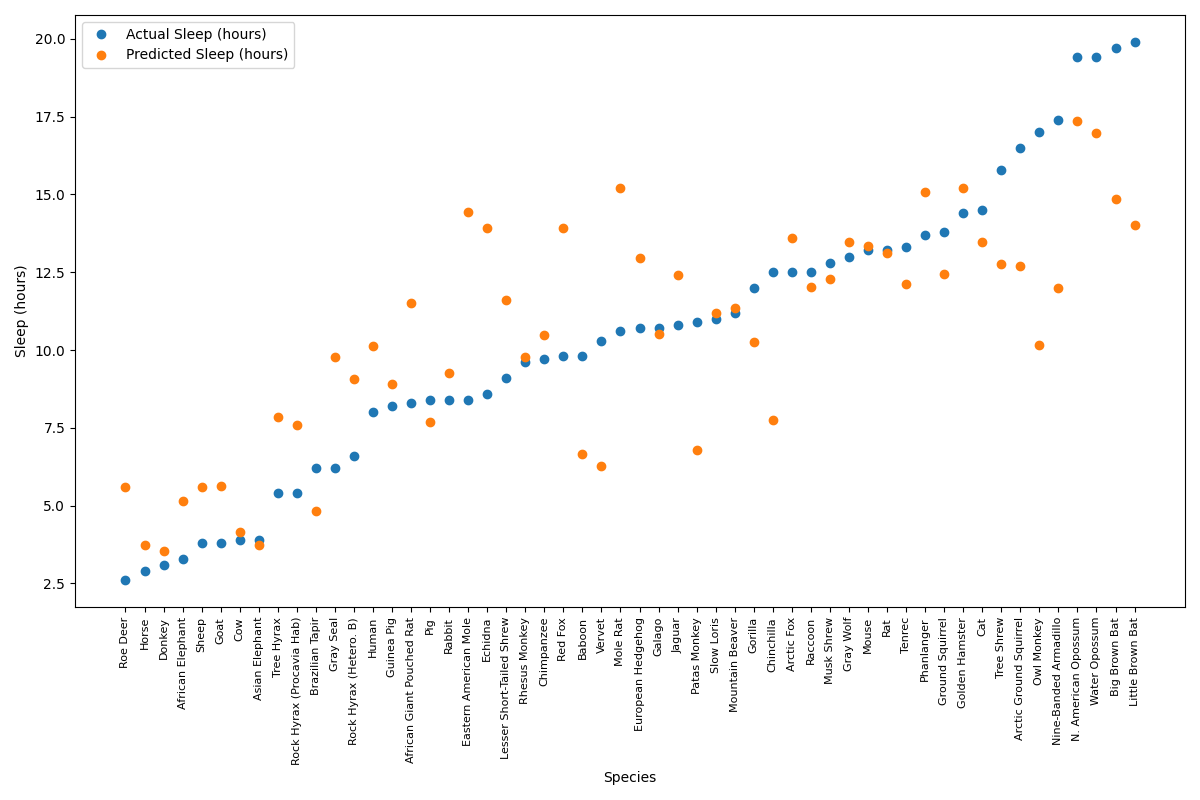
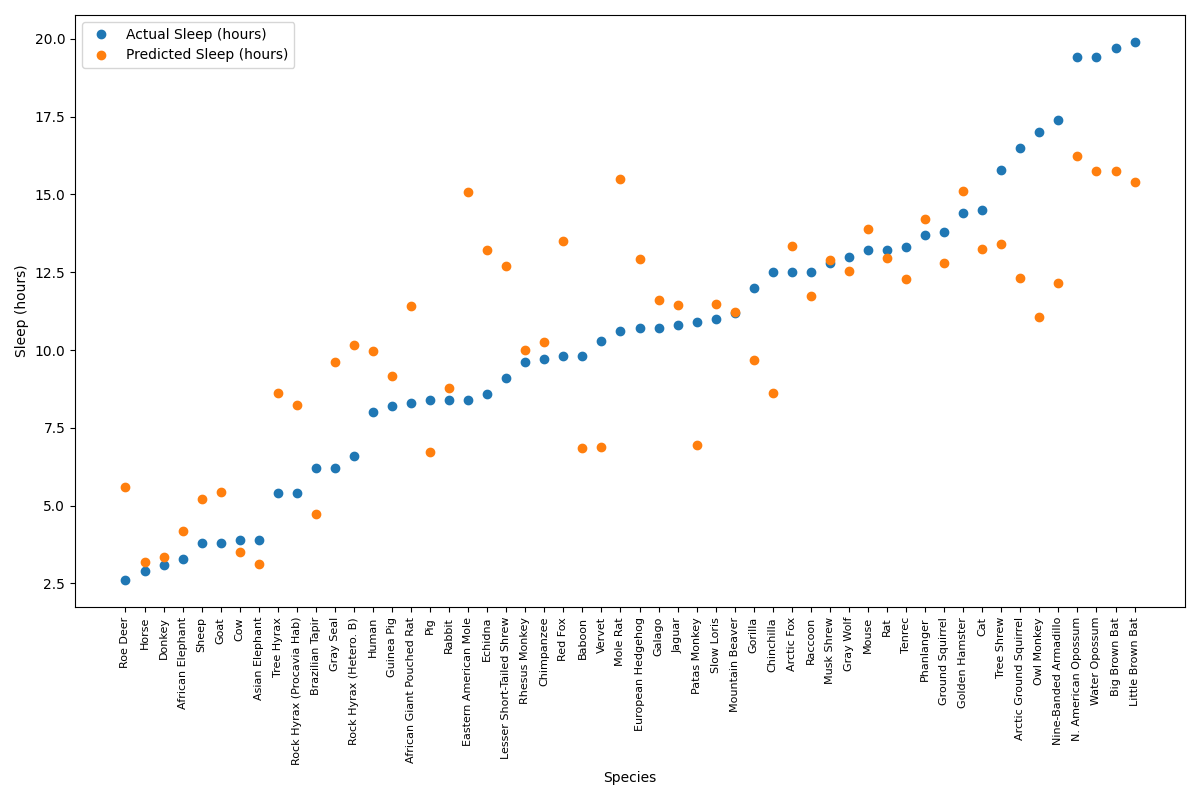
Added body weight to variables used, slightly improved model

diff --git a/main.py b/main.py
@@ -9,7 +9,7 @@ data_frame = data_frame.copy()
 
 # Significant variables
 # --- (All the variables: ["log_BodyWt", "log_BrainWt", "Life", "log_GP", "P", "SE", "D"])
-significant_variables = ["log_GP", "D"]
+significant_variables = ["log_BodyWt", "log_GP", "D"]
 
 # Log the widespread variables to keep everything normal-ish
 data_frame["log_BodyWt"] = np.log(data_frame["BodyWt"])
@@ -61,4 +61,4 @@ plt.tight_layout()
 
 # Show and save
 plt.savefig("results_plot.png")
-plt.show()
+# plt.show()
